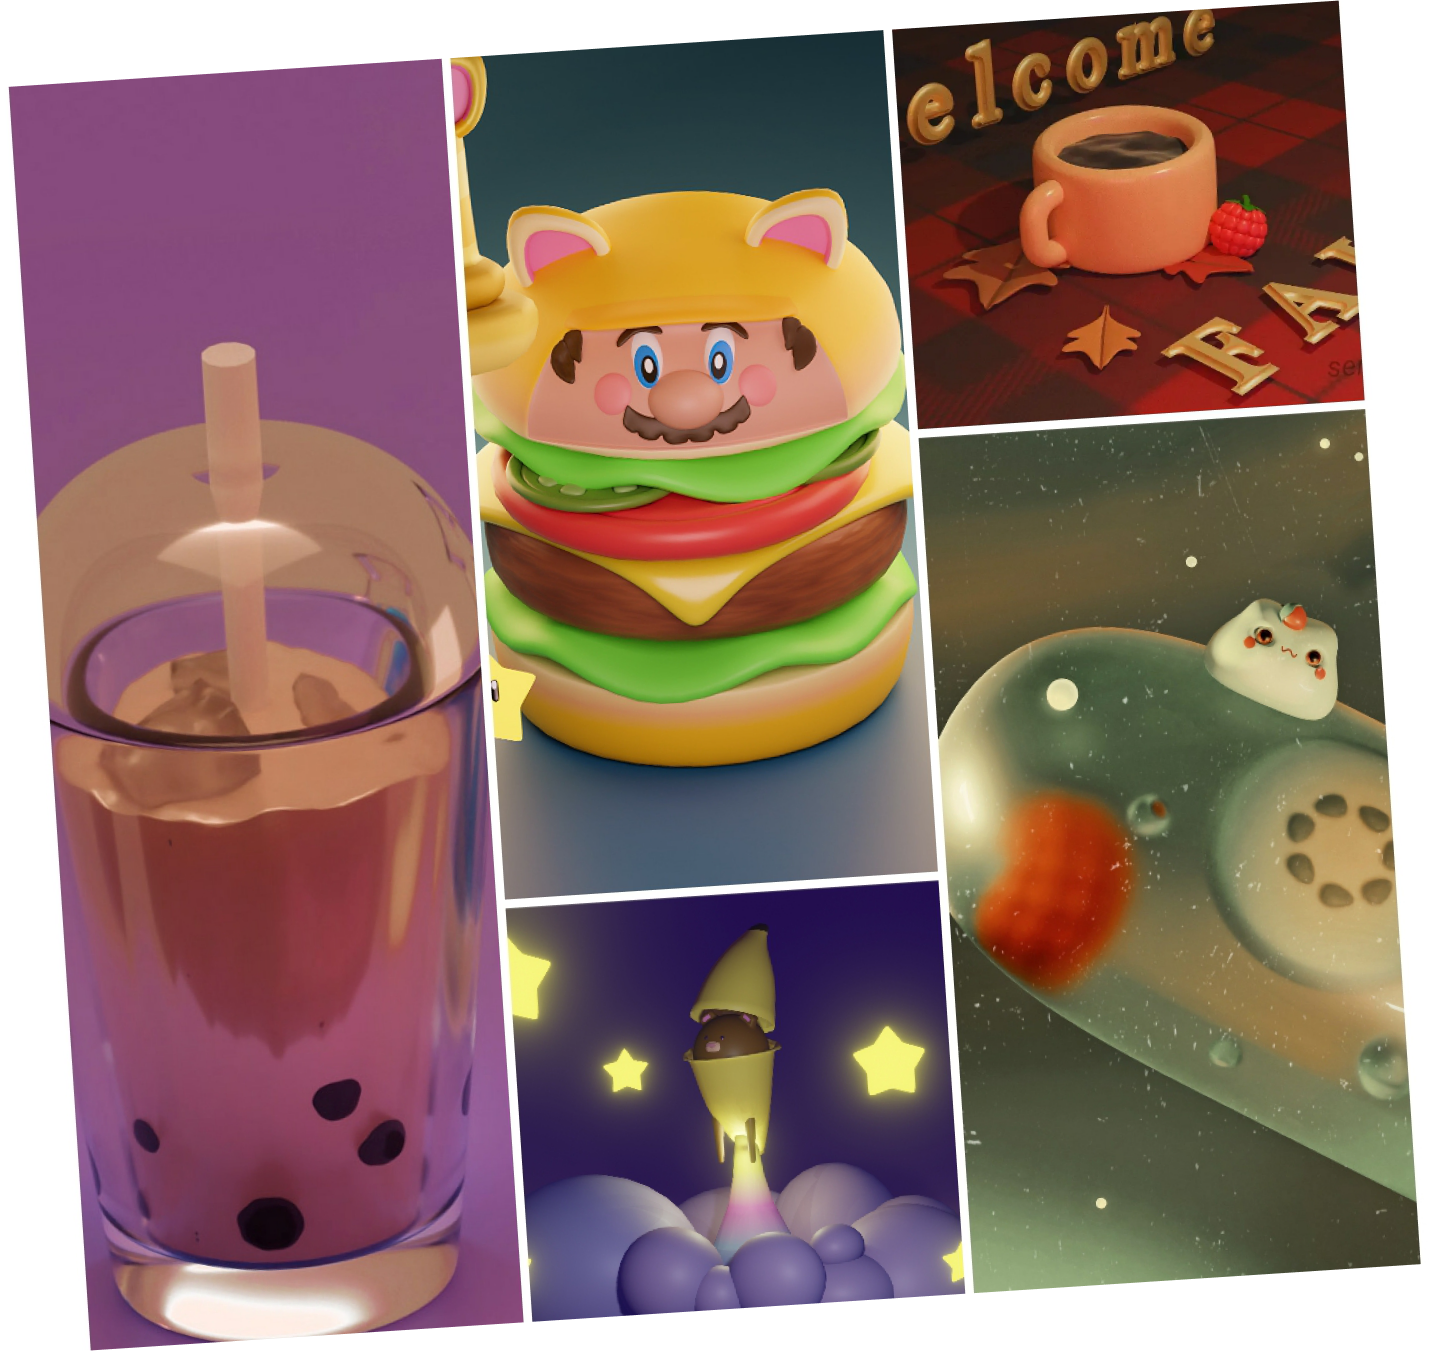
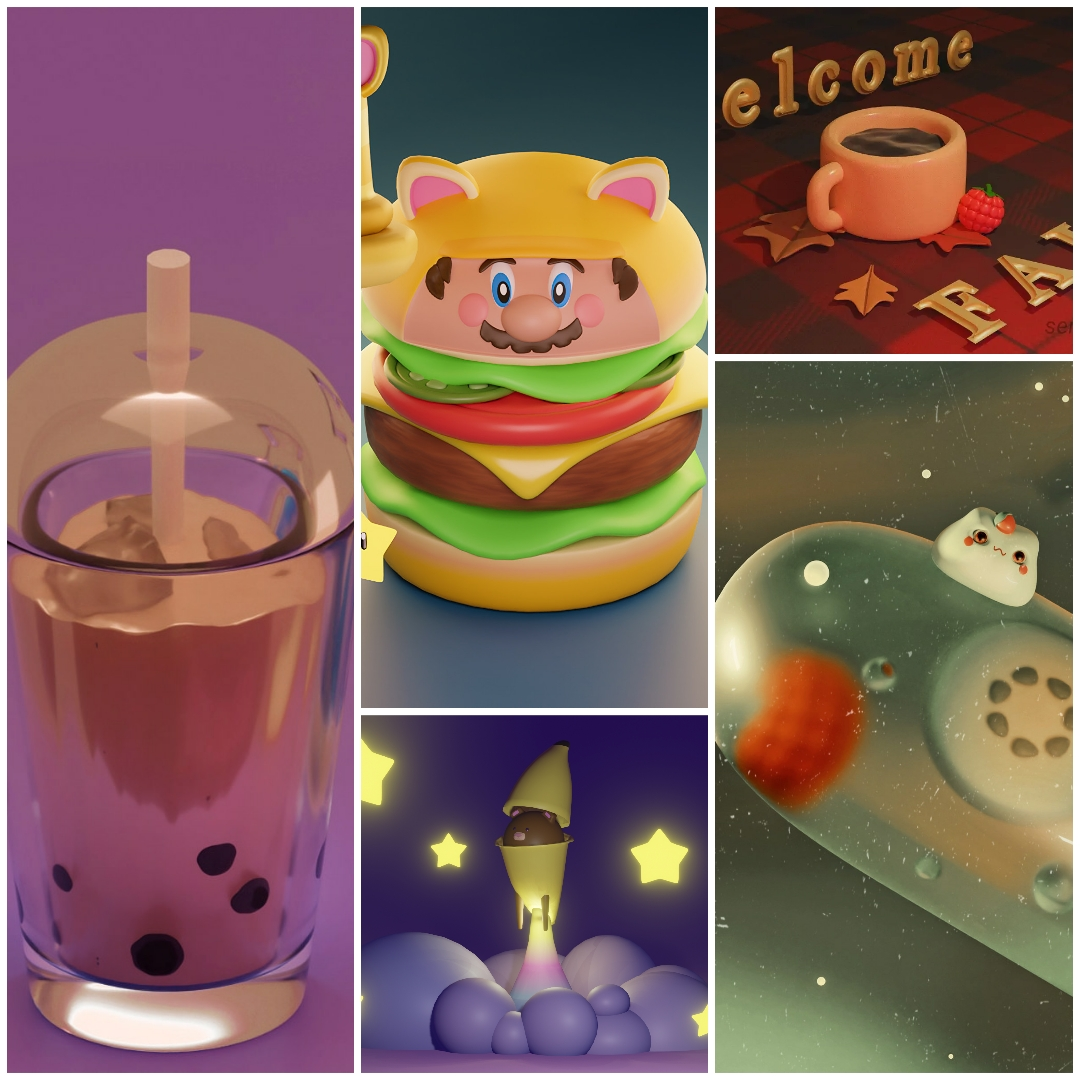
Rebuild random-fun sections to match Figma 25-112 layout and image mapping
- Add Anime short animation section between Vibe Code and 3D Modeling
- Fix New Jeans x PPG row: caption LEFT | image CENTER | circle RIGHT (25-184)
- Fix Character Design row: Gojo oval | figurines (25-186) | caption | wireframe (25-190)
- Fix Food Models to use correct image (25-195, not 25-204)
- Fix Popmart row: Crybaby (25-200) | caption | triangle (25-203)
- Download and use correct image assets for all sections

diff --git a/random-fun.html b/random-fun.html
@@ -62,71 +62,86 @@
     </div>
   </section>
 
+  <!-- ─── ANIME SHORT ANIMATION ───────────────────────────── -->
+  <section style="padding:80px 48px; border-top:1px solid var(--border); border-bottom:1px solid var(--border);">
+    <div class="rf-label reveal">Animation</div>
+    <div class="rf-vibe reveal reveal-d1">
+      <div class="rf-vibe-screen">
+        <img src="assets/img/Misc_25-204.png"
+             alt="Anime inspired short animation still"
+             style="position:absolute; inset:0; width:100%; height:100%; object-fit:cover; display:block;" />
+      </div>
+      <div>
+        <h2 class="rf-vibe-title">Anime inspired short animation</h2>
+        <p class="rf-vibe-desc">
+          A moody anime-style short featuring a glowing character in a winter forest — built in 3D with cinematic lighting and atmospheric depth.
+        </p>
+      </div>
+    </div>
+  </section>
+
   <!-- ─── 3D MODELING HEADER ────────────────────────────── -->
   <div style="padding:64px 48px 0; border-top:1px solid var(--border);">
     <div class="rf-label reveal">3D Modeling</div>
-    <h2 class="reveal reveal-d1" style="font-family:'Syne',sans-serif; font-size:clamp(2.5rem,5vw,4.5rem); font-weight:800; letter-spacing:-0.04em; color:var(--text); line-height:0.95; margin-bottom:0;">
-      New Jeans × PPG<br><em style="font-style:italic; color:var(--muted);">Short Animation</em>
-    </h2>
   </div>
 
-  <!-- Row 1 — New Jeans x PPG + gojo circle -->
-  <div class="rf-row reveal">
-    <!-- animation still — placeholder with gradient since no video URL -->
-    <div class="rf-row-img" style="width:52%; aspect-ratio:16/10; overflow:hidden; flex-shrink:0; background:#000;">
-      <video src="newjeans-ppg.mp4" autoplay loop muted playsinline
-             style="width:100%; height:100%; object-fit:cover; display:block;"></video>
+  <!-- Row 1 — New Jeans x PPG: caption | image | circle -->
+  <div class="rf-row reveal" style="align-items:center; gap:32px;">
+    <p class="rf-row-caption" style="flex:1; min-width:180px; text-align:center;">
+      New Jeans × PPG<br>short animation
+    </p>
+    <div class="rf-row-img" style="flex:2; aspect-ratio:16/10; overflow:hidden; flex-shrink:0; background:#000; border-radius:16px; border:1px solid var(--border2);">
+      <img src="assets/img/Misc_25-140.png"
+           alt="New Jeans x PPG short animation still"
+           style="width:100%; height:100%; object-fit:cover; display:block;" />
     </div>
-    <!-- gojo circle (real image, rotated) -->
-    <div style="flex:1; display:flex; justify-content:center; align-items:center;">
-      <div class="rf-row-img-circle rf-rotated" style="width:220px; height:220px;">
-        <img src="assets/img/Misc_25-140.png"
-             alt="3D character — New Jeans x PPG" />
-      </div>
+    <div class="rf-rotated" style="flex-shrink:0; width:180px; height:180px; border-radius:50%; overflow:hidden; border:1px solid var(--border2);">
+      <img src="assets/img/Ellipse_25-184.png"
+           alt="3D circular character element"
+           style="width:100%; height:100%; object-fit:cover;" />
     </div>
   </div>
 
-  <!-- Row 2 — Anime character Gojo in Disney style -->
+  <!-- Row 2 — Character Design: Gojo oval | figurines | caption | wireframe -->
   <div style="padding:0 48px; border-top:1px solid var(--border);">
     <div class="rf-label reveal" style="padding-top:64px;">Character Design</div>
   </div>
-  <div class="rf-row reveal" style="border-top:none; padding-top:0; align-items:flex-start; gap:40px; flex-wrap:wrap;">
-    <!-- Gojo large oval (real) -->
-    <div style="width:320px; flex-shrink:0; border-radius:50%; overflow:hidden; aspect-ratio:564/495; border:1px solid var(--border2);">
+  <div class="rf-row reveal" style="border-top:none; padding-top:0; align-items:center; gap:32px;">
+    <!-- Gojo large oval -->
+    <div style="flex-shrink:0; width:300px; height:263px; border-radius:50%; overflow:hidden; border:1px solid var(--border2);">
       <img src="assets/img/Ellipse_25-187.png"
            alt="Anime character Gojo — 3D Disney-style render"
            style="width:100%; height:100%; object-fit:cover;" />
     </div>
-    <!-- small figurines stacked (real, rotated) -->
-    <div class="rf-rotated" style="flex-shrink:0; margin-top:20px;">
-      <div style="width:130px; height:200px; border-radius:12px; overflow:hidden; border:1px solid var(--border2);">
-        <img src="assets/img/Misc_25-190.png"
-             alt="Stacked Disney-style figurines"
+    <!-- small figurines, rotated -->
+    <div class="rf-rotated" style="flex-shrink:0;">
+      <div style="width:140px; height:220px; border-radius:14px; overflow:hidden; border:1px solid var(--border2);">
+        <img src="assets/img/Misc_25-186.png"
+             alt="Tsum Tsum style Disney figurines"
              style="width:100%; height:100%; object-fit:cover;" />
       </div>
     </div>
-    <p class="rf-row-caption" style="align-self:center; max-width:280px;">
+    <p class="rf-row-caption" style="flex:1; text-align:center;">
       Anime character — <em style="font-style:italic; color:var(--cream);">Gojo</em> — in a Disney-inspired figurine
     </p>
-    <!-- wireframe blob (real, rotated) -->
-    <div class="rf-rotated-neg" style="flex:1; min-width:180px; max-width:260px; margin-left:auto;">
-      <div style="border-radius:12px; overflow:hidden; aspect-ratio:2/3; border:1px solid var(--border2);">
-        <img src="assets/img/Misc_25-200.png"
+    <!-- wireframe, rotated opposite -->
+    <div class="rf-rotated-neg" style="flex-shrink:0;">
+      <div style="width:180px; height:280px; border-radius:12px; overflow:hidden; border:1px solid var(--border2);">
+        <img src="assets/img/Misc_25-190.png"
              alt="3D wireframe character mesh"
              style="width:100%; height:100%; object-fit:cover;" />
       </div>
     </div>
   </div>
 
-  <!-- Row 3 — Food Collage -->
+  <!-- Row 3 — Food Models: rotated collage | caption -->
   <div style="padding:0 48px; border-top:1px solid var(--border);">
     <div class="rf-label reveal" style="padding-top:64px;">Food Models</div>
   </div>
-  <div class="rf-row reveal" style="border-top:none; padding-top:0; align-items:center;">
-    <!-- food collage (real, rotated) -->
-    <div class="rf-rotated-neg" style="width:48%; flex-shrink:0;">
+  <div class="rf-row reveal" style="border-top:none; padding-top:0; align-items:center; gap:40px;">
+    <div class="rf-rotated-neg" style="flex:1.2; flex-shrink:0;">
       <div style="border-radius:16px; overflow:hidden; aspect-ratio:4/3; border:1px solid var(--border2);">
-        <img src="assets/img/Misc_25-204.png"
+        <img src="assets/img/Misc_25-195.png"
              alt="Collage of food-inspired 3D models"
              style="width:100%; height:100%; object-fit:cover;" />
       </div>
@@ -136,24 +151,22 @@
     </p>
   </div>
 
-  <!-- Row 4 — Popmart Crybaby -->
+  <!-- Row 4 — Popmart Crybaby: image | caption | triangle -->
   <div style="padding:0 48px; border-top:1px solid var(--border);">
     <div class="rf-label reveal" style="padding-top:64px;">Collectible Design</div>
   </div>
-  <div class="rf-row reveal" style="border-top:none; padding-top:0; align-items:center; flex-wrap:wrap; gap:40px;">
-    <!-- Crybaby pink (real) -->
-    <div style="width:200px; flex-shrink:0; border-radius:12px; overflow:hidden; border:1px solid var(--border2);">
-      <img src="assets/img/Misc_25-140.png"
+  <div class="rf-row reveal" style="border-top:none; padding-top:0; align-items:center; gap:40px;">
+    <div style="flex:1; flex-shrink:0; border-radius:12px; overflow:hidden; border:1px solid var(--border2);">
+      <img src="assets/img/Misc_25-200.png"
            alt="Popmart Crybaby inspired figurine — pink"
            style="width:100%; display:block; object-fit:cover;" />
     </div>
-    <p class="rf-row-caption" style="flex:1; min-width:200px;">
+    <p class="rf-row-caption" style="flex:1; text-align:center;">
       Popmart <em style="font-style:italic; color:var(--cream);">Crybaby</em><br>inspired figurines
     </p>
-    <!-- Crybaby triangle (real, rotated) -->
-    <div class="rf-rotated" style="flex-shrink:0; width:280px;">
-      <img src="assets/img/Misc_25-241.png"
-           alt="Popmart Crybaby inspired figurine — triangle composition"
+    <div class="rf-rotated" style="flex:1; flex-shrink:0;">
+      <img src="assets/img/Misc_25-203.png"
+           alt="Popmart Crybaby — triangle composition"
            style="width:100%; display:block; border-radius:12px; border:1px solid var(--border2);" />
     </div>
   </div>
